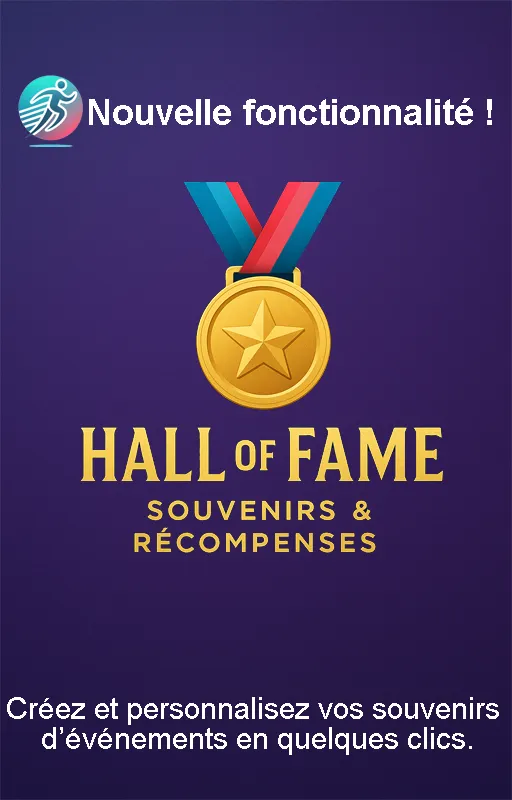
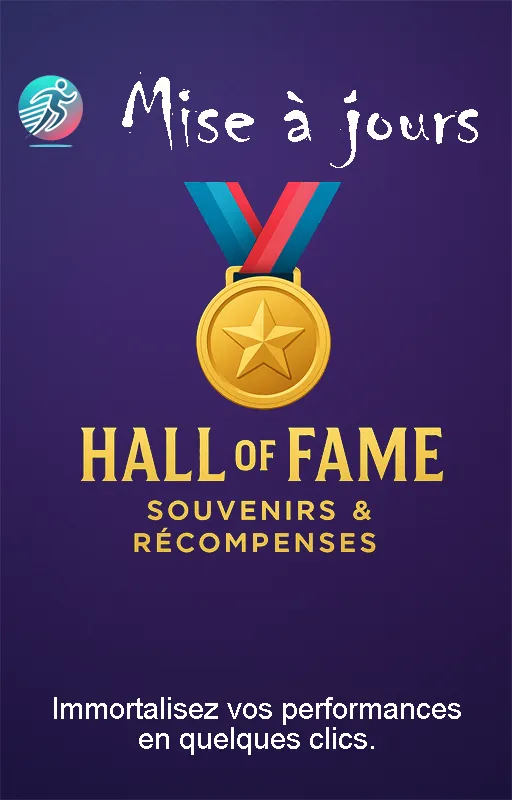
2.4.0 pret pour test

Changed region(s): [[0.0, 0.875, 0.9688, 0.9375], [0.1562, 0.0938, 0.9688, 0.2188]]

diff --git a/MonSuiviSportif/scripts/memory.js b/MonSuiviSportif/scripts/memory.js
@@ -533,11 +533,33 @@ function onClickGenerateMemory() {
     const titleUpper = title.toUpperCase();
     const date = formatMemoryDate(inputMemoryDateStartRef.value, inputMemoryDateEndRef.value);
 
-    if (!isMemoryImageLoaded || !title || !date) {
+
+    // Traitement champ manquant
+    const fields = [
+        { value: title, ref: inputMemoryTitleRef },
+        { value: date, ref: inputMemoryDateStartRef },
+        { value: isMemoryImageLoaded, ref: inputImageMemoryRef }
+    ];
+
+    let hasError = false;
+
+    // On met / enlève la classe en fonction du contenu
+    fields.forEach(field => {
+        if (!field.value) {
+            field.ref.classList.add("fieldRequired");
+            hasError = true;
+        } else {
+            field.ref.classList.remove("fieldRequired");
+        }
+    });
+
+    if (hasError) {
         alert('Merci de remplir tous les champs et d’ajuster ton image.');
         return;
     }
 
+
+    // Poursuite si aucun champ manquant
     const finalCanvas = document.createElement('canvas');
     const fctx = finalCanvas.getContext('2d');
     const w = 512;
@@ -1070,6 +1092,12 @@ async function eventDeleteMemory() {
 
 
 function onResetMemoryItems() {
+
+    // Retire field required si présent
+    inputMemoryTitleRef.classList.remove("fieldRequired");
+    inputMemoryDateStartRef.classList.remove("fieldRequired");
+    inputImageMemoryRef.classList.remove("fieldRequired");
+
     // Vide les champs
     inputMemoryDateStartRef.value = null;
     inputMemoryDateEndRef.value = null;

diff --git a/MonSuiviSportif/scripts/updateInfo.js b/MonSuiviSportif/scripts/updateInfo.js
@@ -2,12 +2,13 @@
 //vérifie si l'utilisateur possède ce nom dans la base 
 //pour savoir si on doit lui afficher le popup des nouveautés ou non
 //l'information sera stocké dans userInfo.updateNameList[]
-const updateName = "Rougail";
+const updateName = "Hall-of-fame";
 
 //tableau des images pour les nouveautés
 const updateImageArray = [
         "./imageUpdate/UpdateAPI36Slide1.webp",
-        "./imageUpdate/UpdateAPI36Slide2.webp"
+        "./imageUpdate/UpdateAPI36Slide2.webp",
+        "./imageUpdate/UpdateAPI36Slide3.webp"
     ];
 
 

diff --git a/MonSuiviSportif/index.html b/MonSuiviSportif/index.html
@@ -1221,7 +1221,7 @@
                 <div id="divRewards" class="new-interface">
                     <!-- Zone hall Of Fame -->
                     <div class="reward-category hall-of-fame">
-                        <img src="./Icons/Icon-Favoris-Sel.webp" alt="">
+                        <img src="./Icons/Icon-Favoris-Gold.webp" alt="">
                         <span>Mes events</span>
                         <span id="spanTextNbreMemory">0/20</span>
                     </div>

diff --git a/MonSuiviSportif/styles/global.css b/MonSuiviSportif/styles/global.css
@@ -3446,7 +3446,7 @@ div.visionneuse {
     
 .nav-arrow {
     position: absolute;
-    bottom: 50px;
+    bottom: 70px;
     background: rgba(0, 0, 0, 0.1);
     border: none;
     color: white;
@@ -3511,7 +3511,7 @@ div.visionneuse-safe-area-top{
     transform: translateX(-50%);
     color: #989898;
     font-weight: bold;
-    font-size: 24px;
+    font-size: 18px;
 }
 
 
